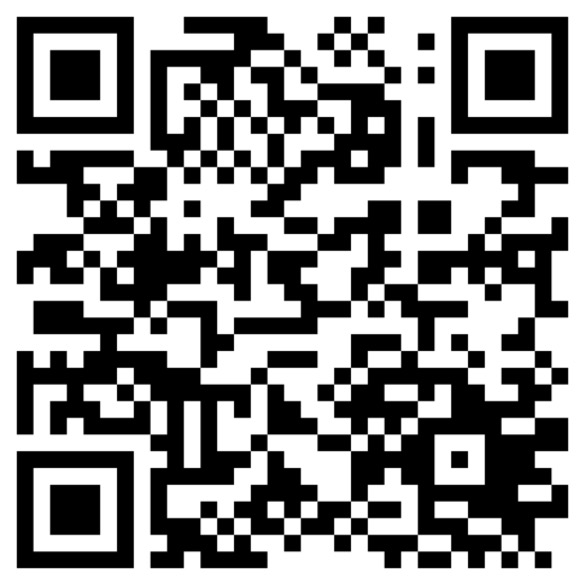
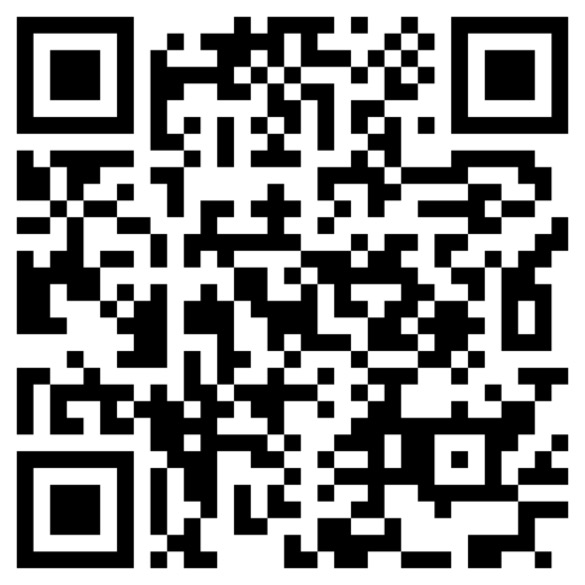
.

diff --git a/usdt.html b/usdt.html
@@ -18,15 +18,15 @@
 
   <div style="padding-top: 15px;">
     <hr>
-  <p style="width: 80%; margin-left: auto; margin-right: auto; font-size: 55%; text-align: center;">This address is for ERC-20 USDT only
-Send only ERC-20 USDT to this deposit address. Sending any other currency to this address may result in the loss of your deposit.</p>
+  <p style="width: 80%; margin-left: auto; margin-right: auto; font-size: 55%; text-align: center;">This address is for TRC-20 USDT only
+Send only TRC-20 USDT to this deposit address. Sending any other currency to this address may result in the loss of your deposit.</p>
   </div>
   <hr>
     <img id="checkout-image" src="./assets/usdtqr.png" "="">
 
 <div style="padding-top: 15px;">
   <hr>
-<p style="width: 80%; margin-left: auto; margin-right: auto; font-size: 77%; text-align: center;">0x1DEDace48c77acD39f29487de8B1B968ABcC4374</p>
+<p style="width: 80%; margin-left: auto; margin-right: auto; font-size: 77%; text-align: center;">TBv2Jva6im7G6rbrHBvPviD8HCaXXRPgCc</p>
 </div>
 
 </body></html>
